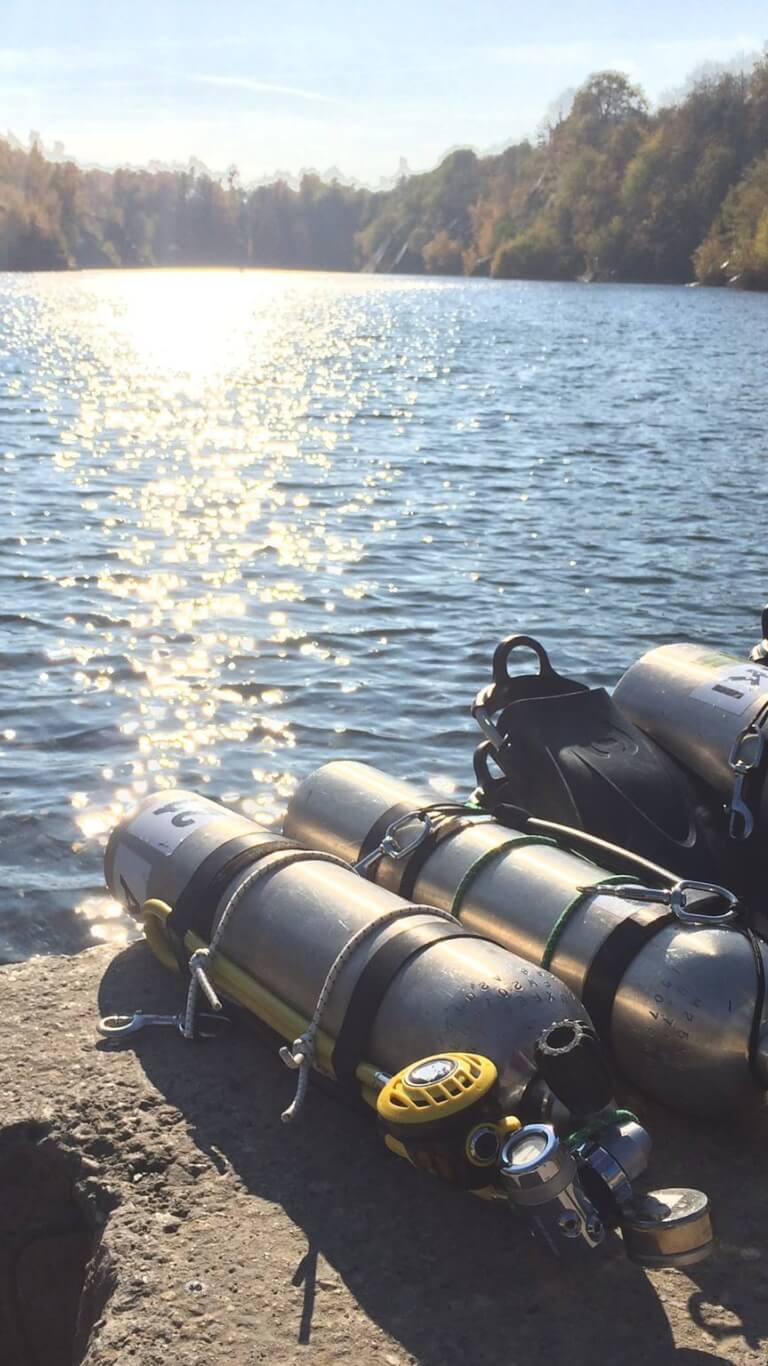
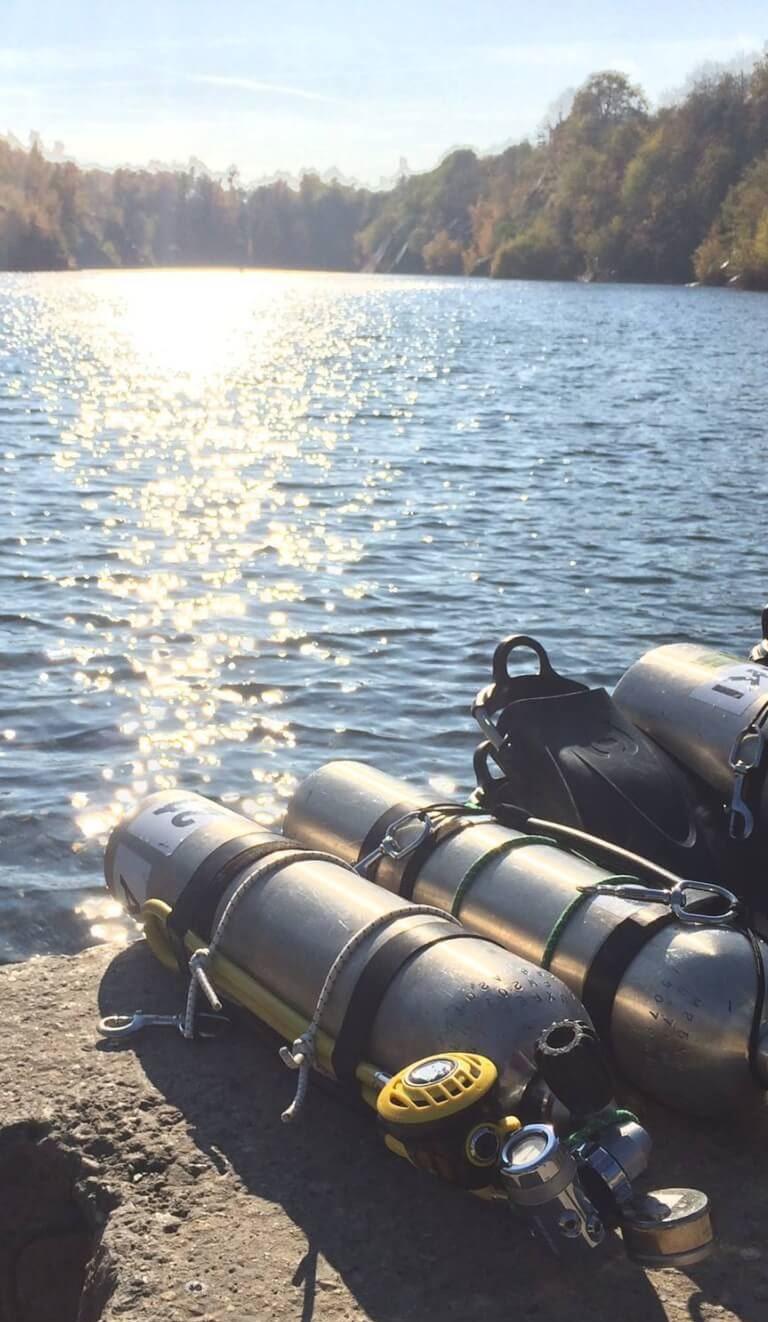
Fix photo 9

diff --git a/css-layout/samples/grid/grid-photogallery.html b/css-layout/samples/grid/grid-photogallery.html
@@ -79,7 +79,7 @@
             <div class="photo photo--portrait">
                 <img sizes="(min-width: 51em) 50vw, 100vw"
                      src="../resources/photos/09.jpg"
-                     srcset="../resources/photos//09.jpg 768w, ../resources/photos//09_288.jpg 162w, ../resources/photos//09_384.jpg 216w, ../resources/photos//09_461.jpg 259w, ../resources/photos//09_576.jpg 324w" />
+                     srcset="../resources/photos/09.jpg 768w, ../resources/photos/09_288.jpg 288w, ../resources/photos/09_384.jpg 384w, ../resources/photos/09_461.jpg 461w, ../resources/photos/09_576.jpg 576w" />
             </div>
             <div class="photo">
                 <img sizes="(min-width: 51em) 50vw, 100vw"
